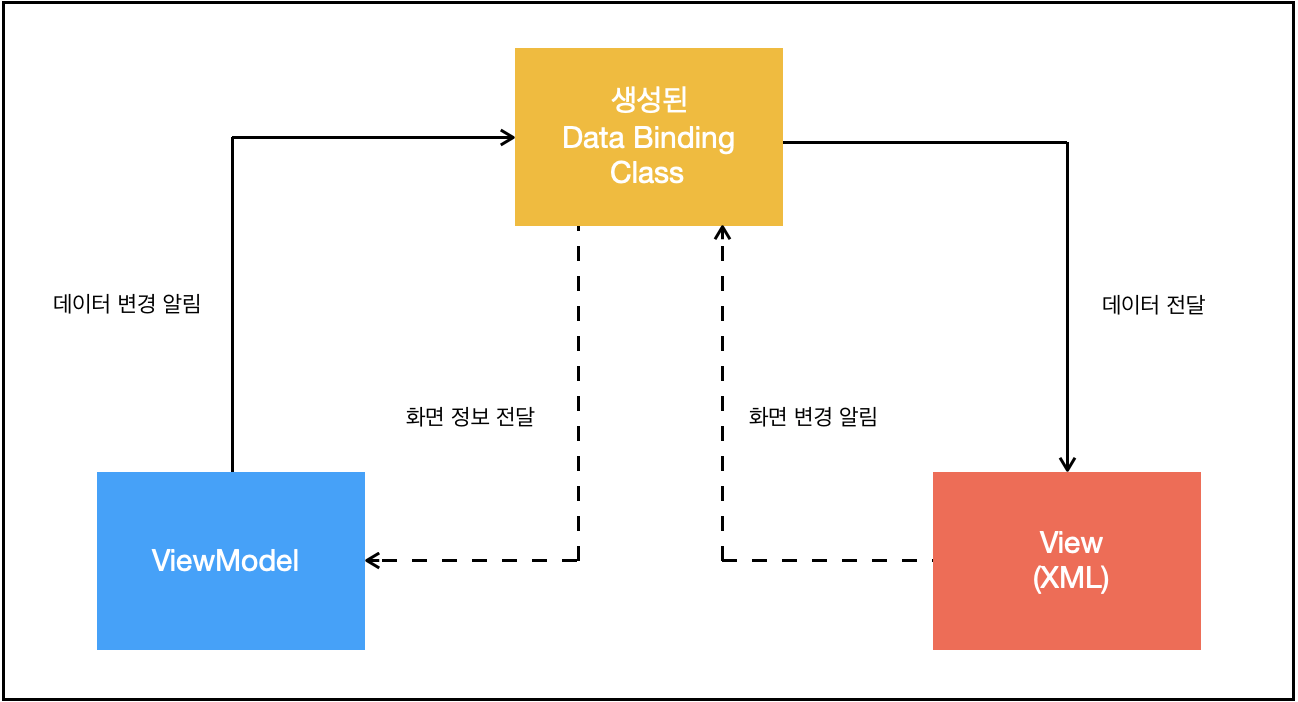
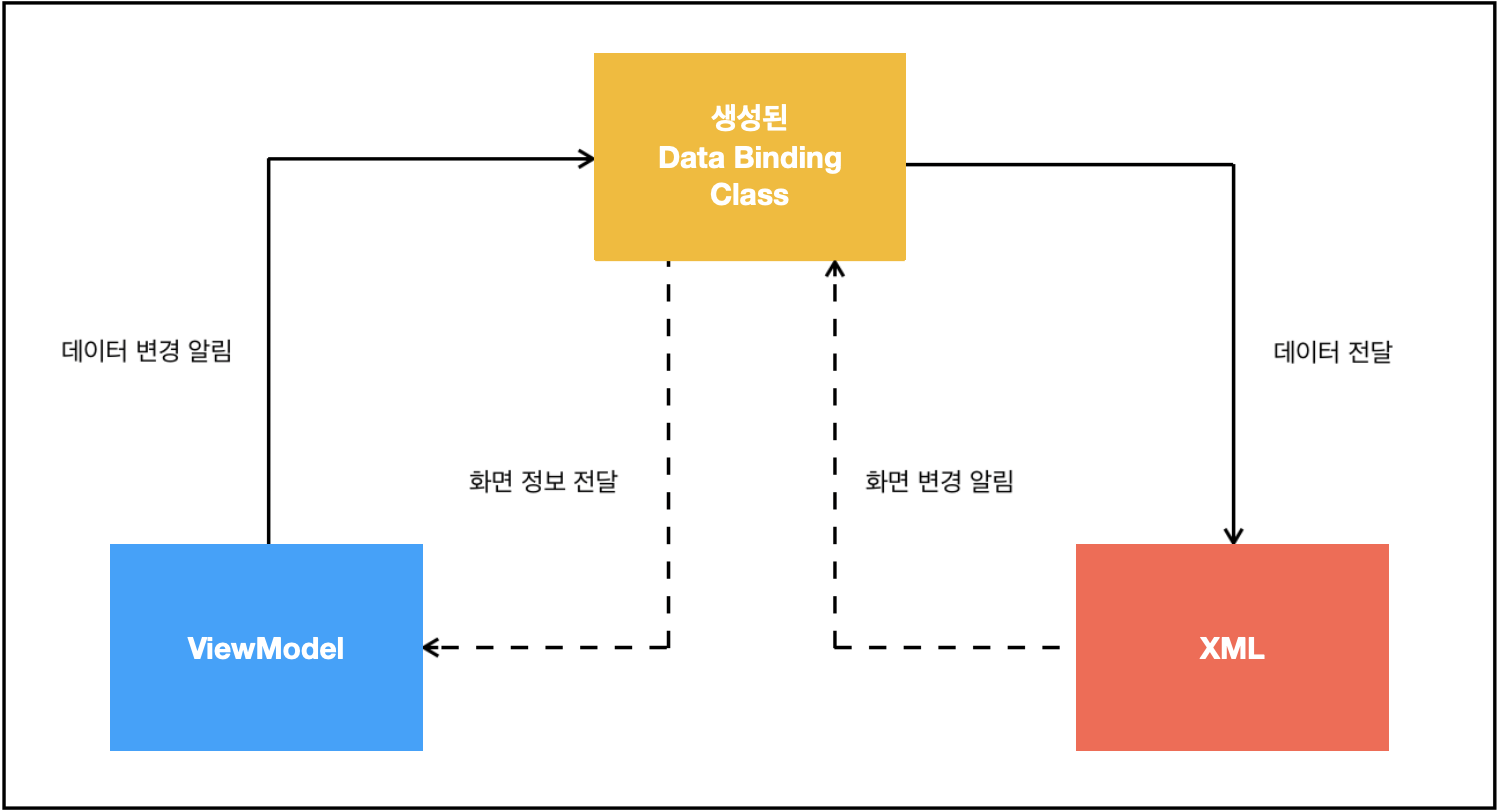
Update Files.

diff --git a/README.md b/README.md
@@ -52,7 +52,7 @@
 
 ## Data Binding
 
-<img width="649" alt="DataBinding" src="https://user-images.githubusercontent.com/52689243/63493597-edac4600-c4f6-11e9-85ec-b39c36d93ecb.png">
+<img width="749" alt="DataBinding" src="https://user-images.githubusercontent.com/53843178/63659335-dbc6ed80-c7eb-11e9-8808-31c8759a7eaf.png">
 
 - MVVM 에서 가장 중요한 핵심으로, View 가 오로지 수동적인 포지션을 취할 수 있고 ViewModel 이 View 의 존재를 알지 못하게 하여 의존성에서 벗어날 수 있게 해준다.
 - Data Binding 은 View 와 ViewModel 간의 데이터와 명령을 연결해주는 매개체가 되어 서로의 존재를 명확히 알지 않더라도 다양한 인터랙션을 할 수 있도록 도와준다.
